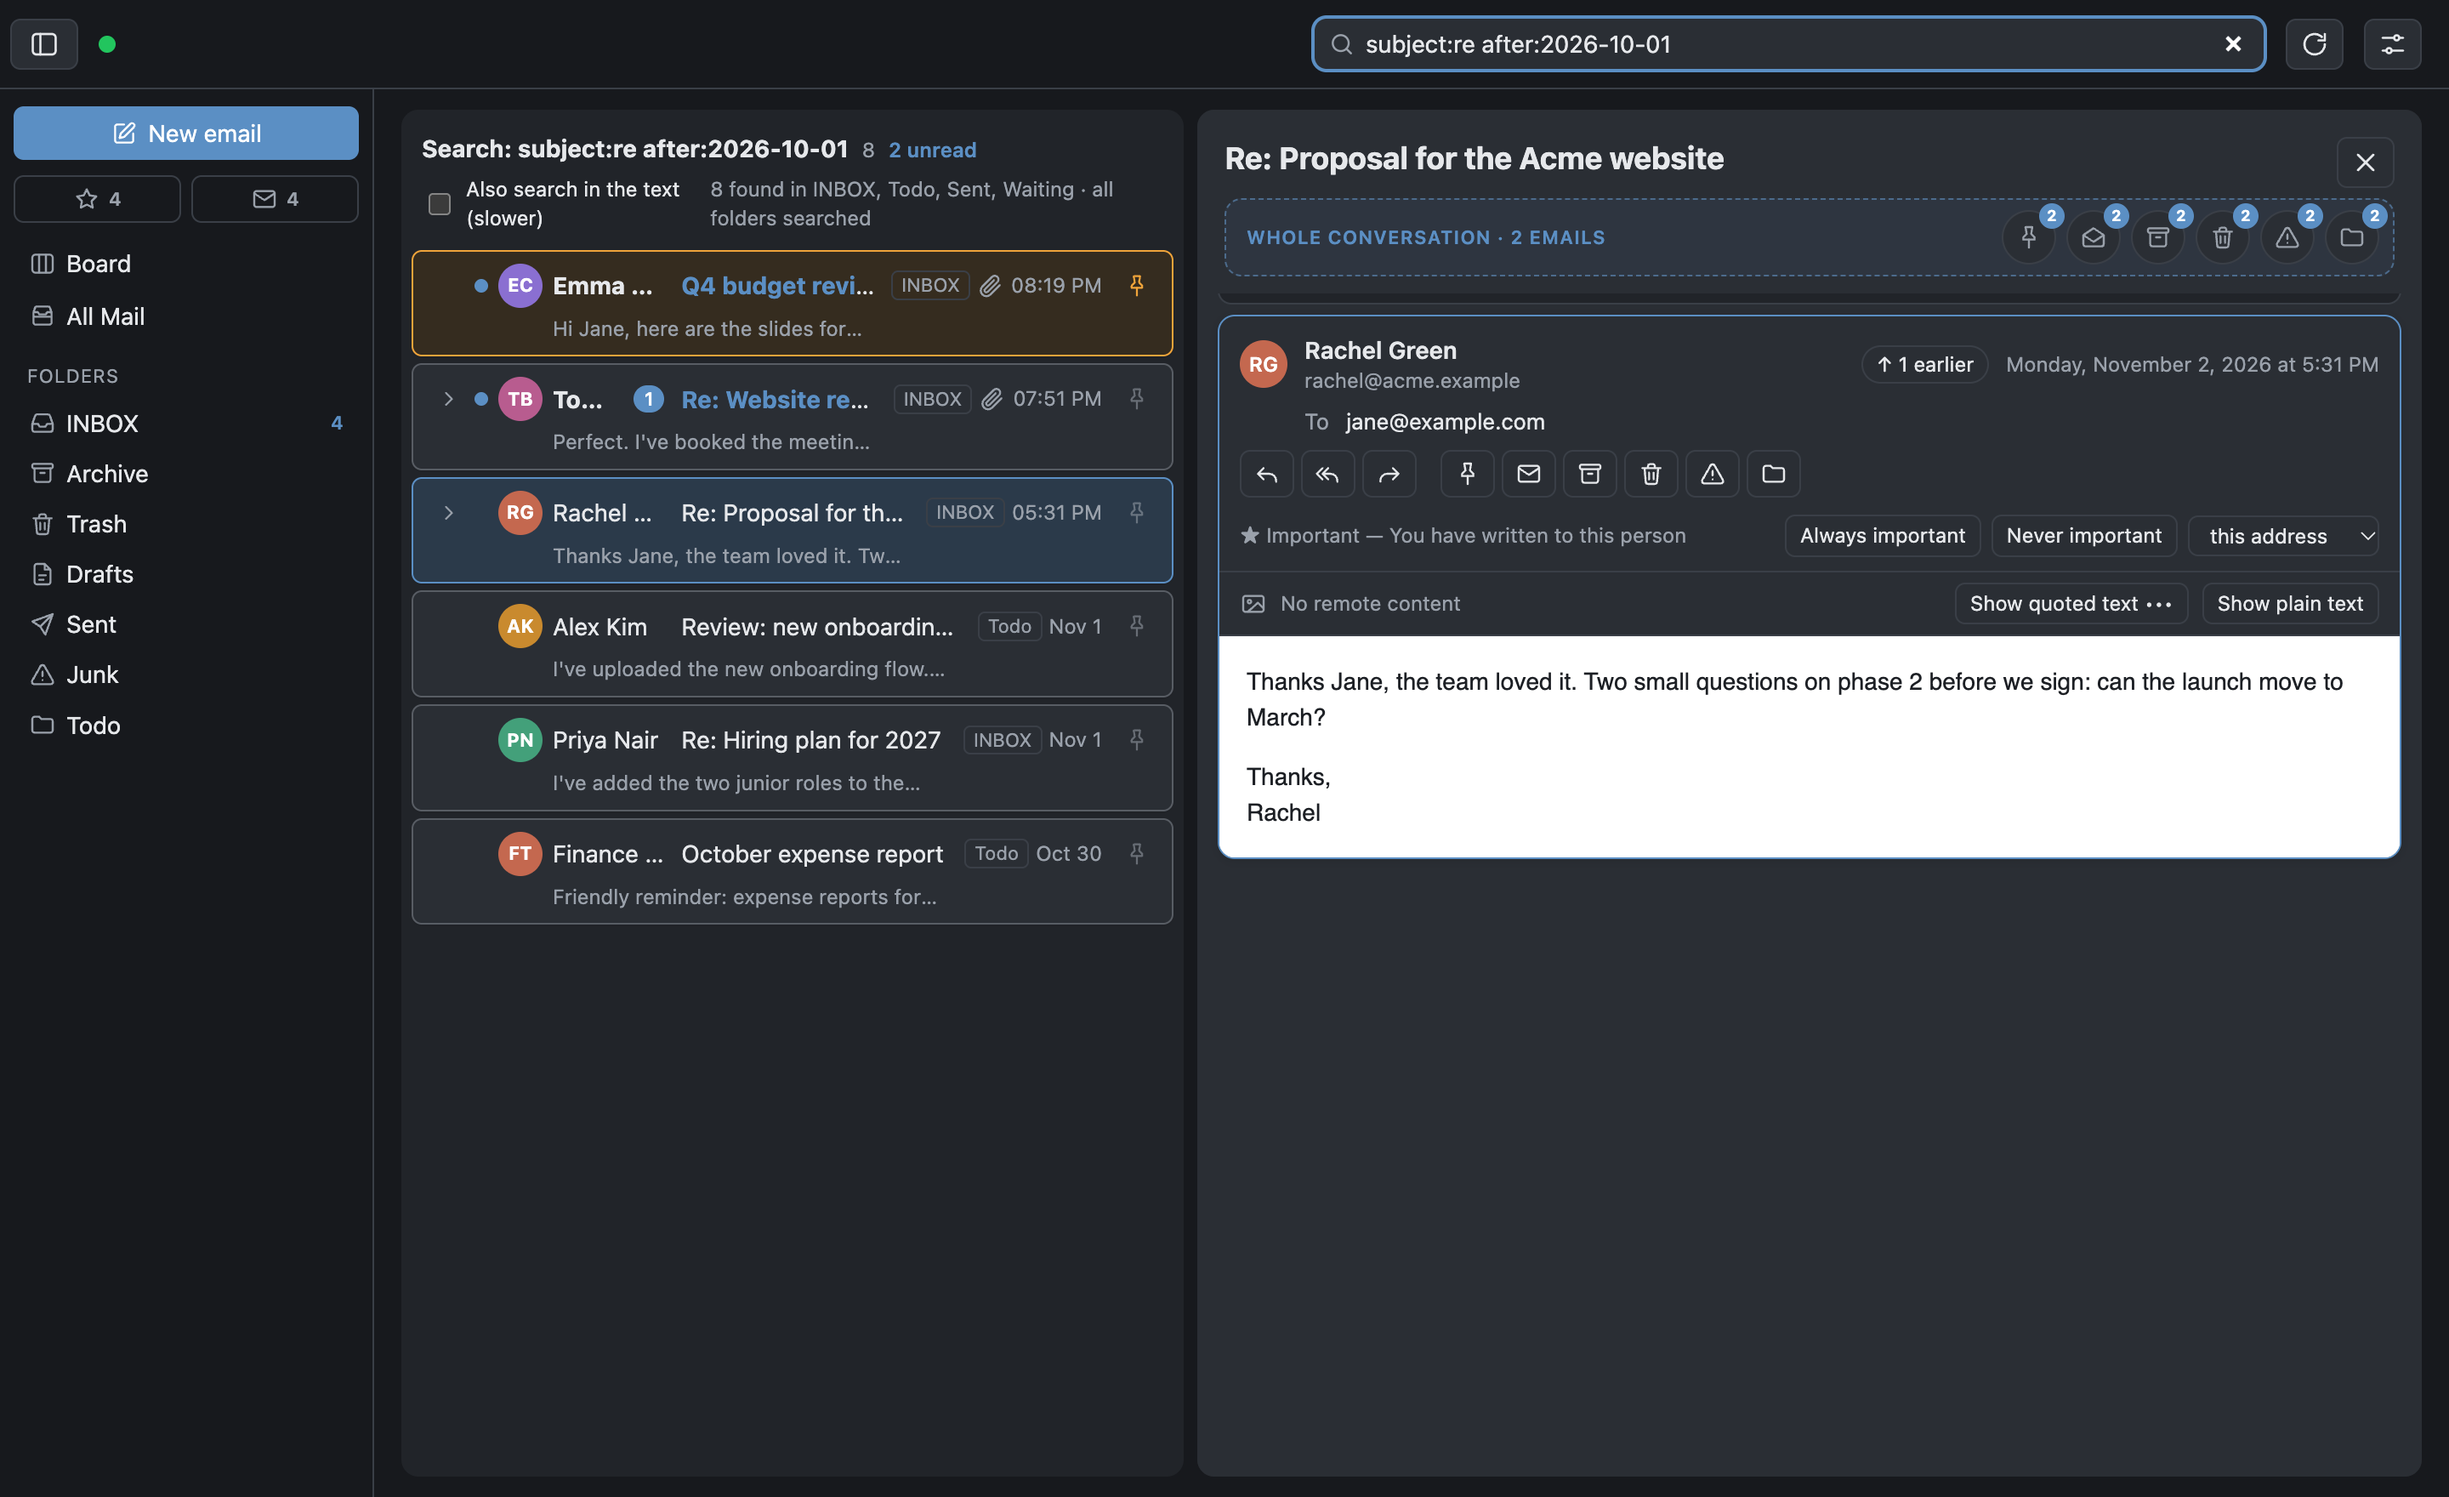
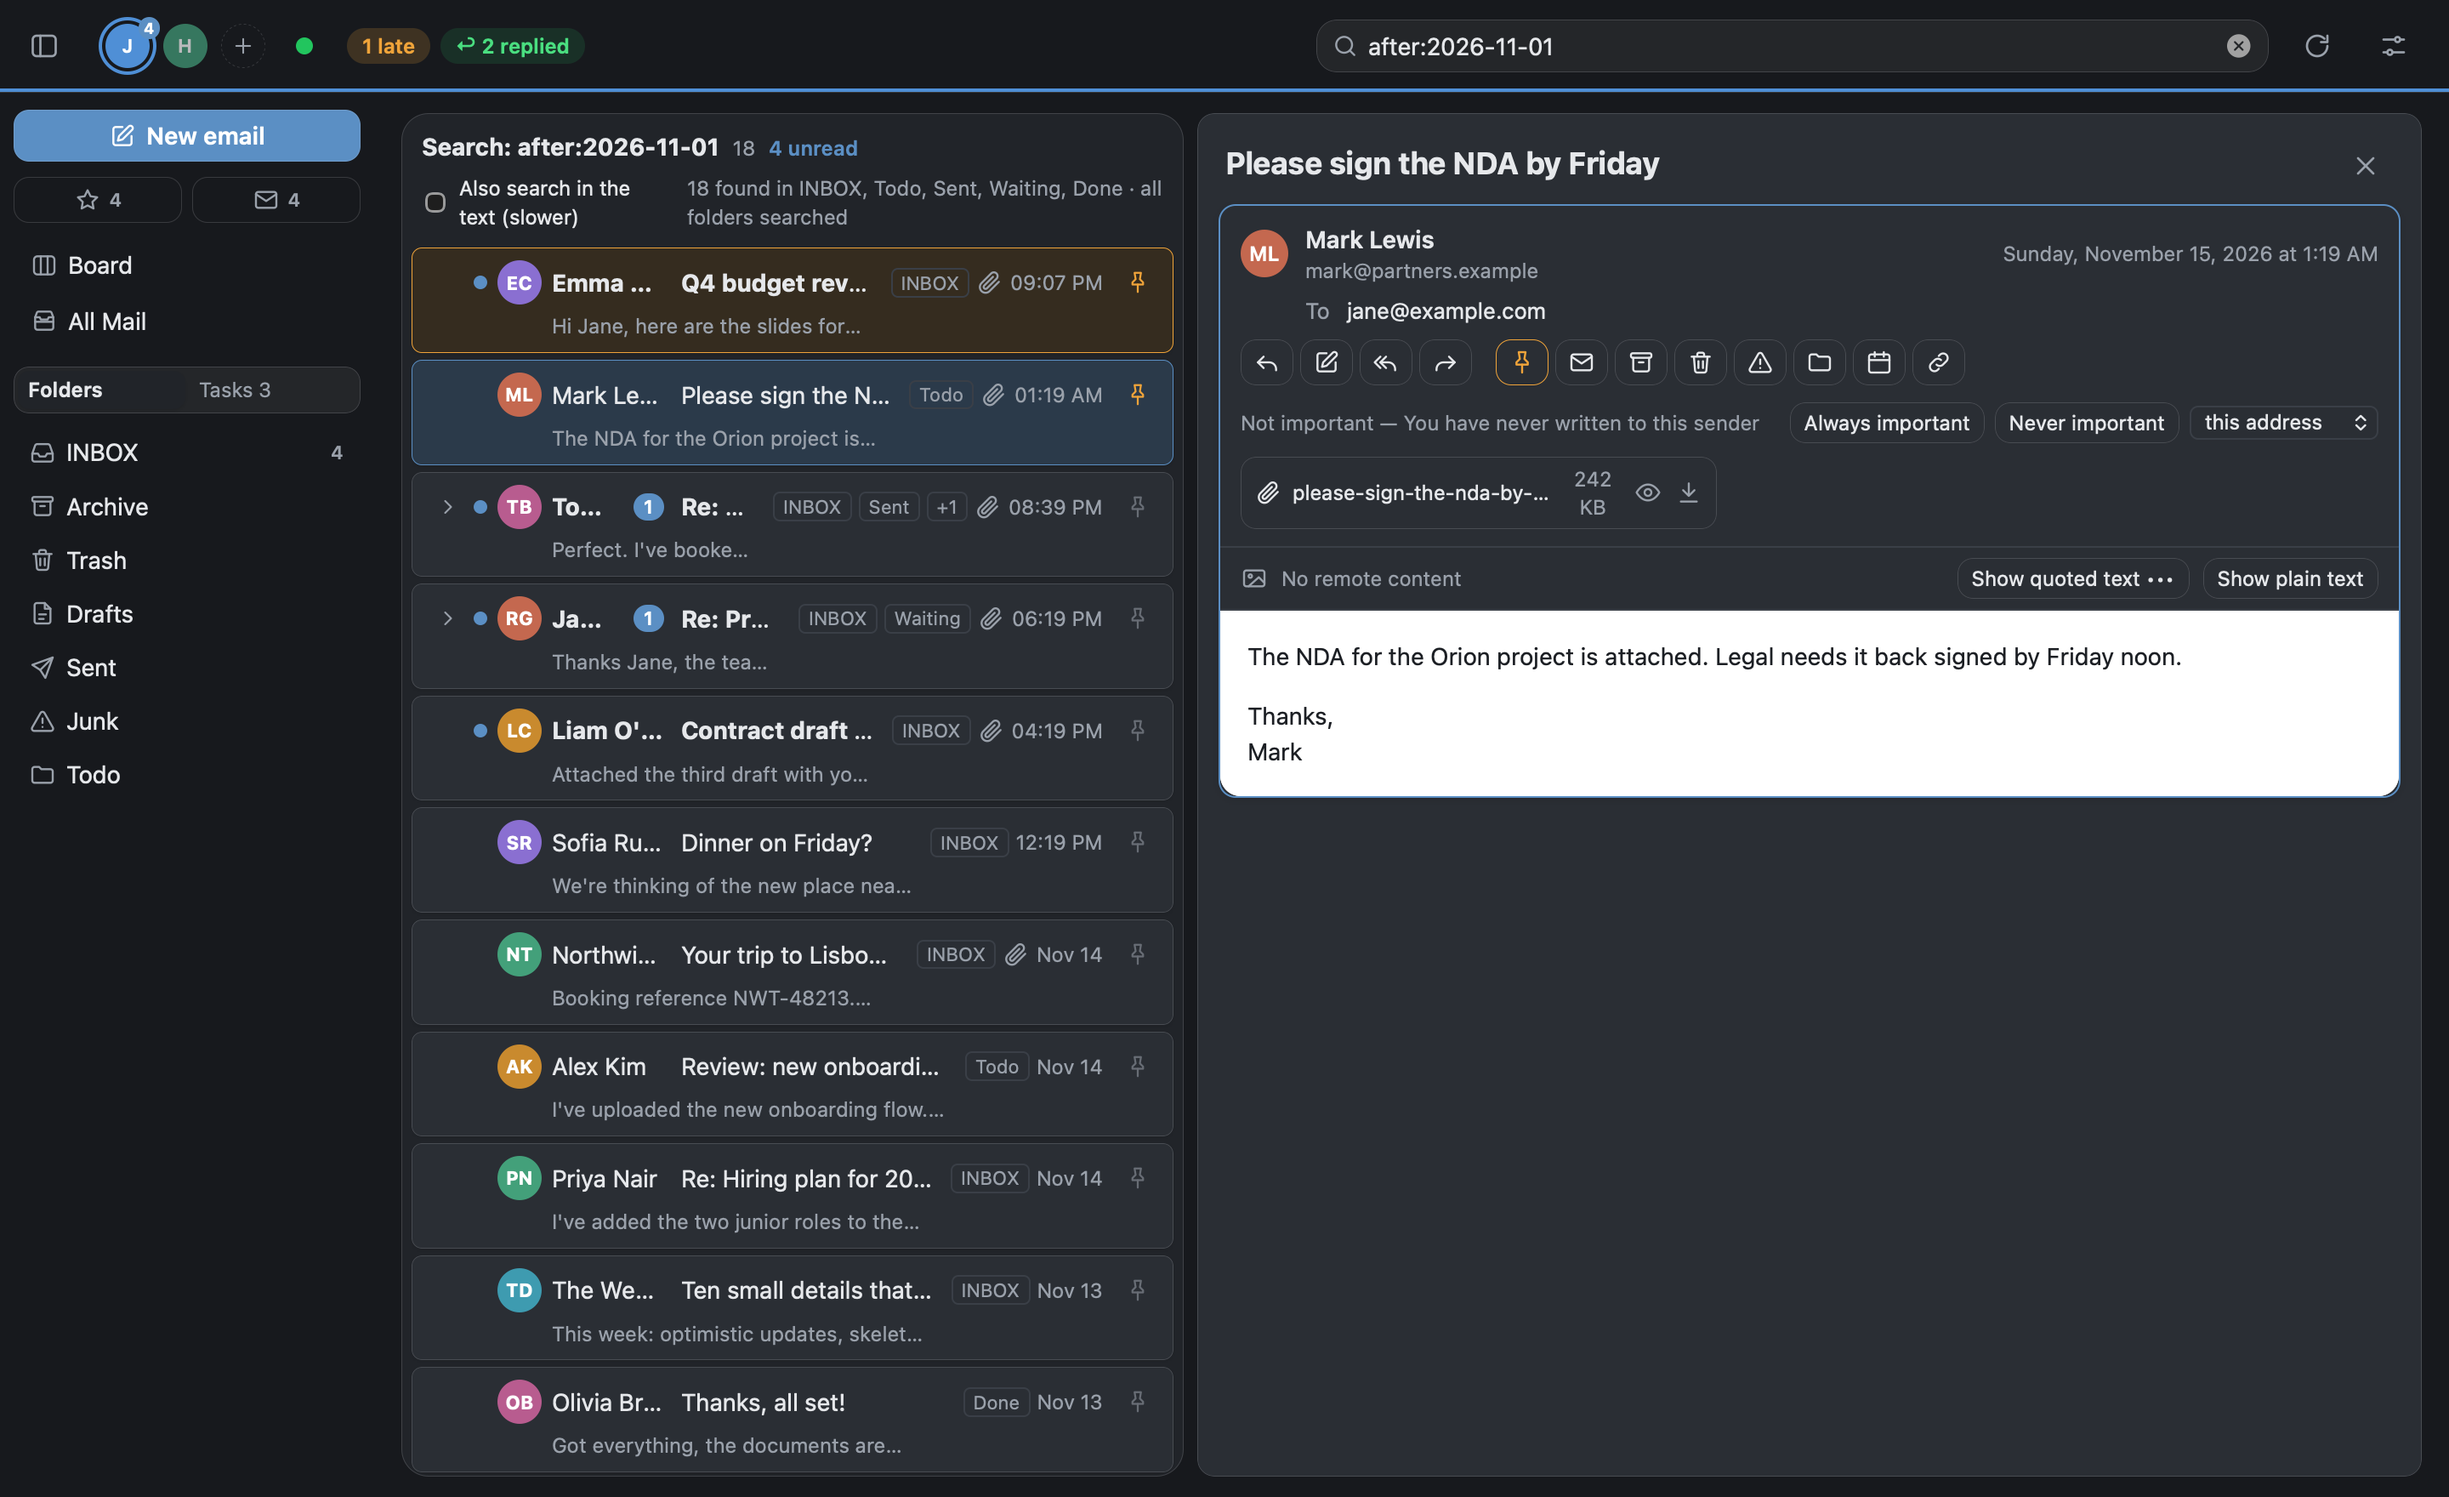
README: new screenshots of today's app
Board with Todo and Waiting tags, a conversation with the quick reply, a
folder with the Tasks tab, the rich editor and search, all with invented
demo data.

diff --git a/README.md b/README.md
@@ -11,13 +11,15 @@ It works with any mailbox that speaks IMAP, and signs in to iCloud, Gmail and
 Microsoft 365 / Outlook.com without typing servers. Written in Rust with
 [Tauri](https://tauri.app); open source under the MIT license.
 
-![The board: every column is a folder of your mailbox](docs/screenshot-board.png)
+![The board: Inbox, Todo, Waiting and Done columns, with late to-dos and replies counted in the top bar](docs/screenshot-board.png)
 
-![Folder view: expandable conversations and the reading pane](docs/screenshot-folder.png)
+![A conversation open, with the quick reply under the email](docs/screenshot-reader.png)
 
-![Writing an email: recipients as draggable chips](docs/screenshot-compose.png)
+![A folder as a list with the reading pane, and the Tasks tab in the sidebar](docs/screenshot-folder.png)
 
-![Search with operators across every folder](docs/screenshot-search.png)
+![Writing in the rich editor, with recipients as chips and saved replies](docs/screenshot-compose.png)
+
+![Search across every folder, each result tagged with its folder](docs/screenshot-search.png)
 
 <sub>Screenshots taken with fictional demo data.</sub>
 
